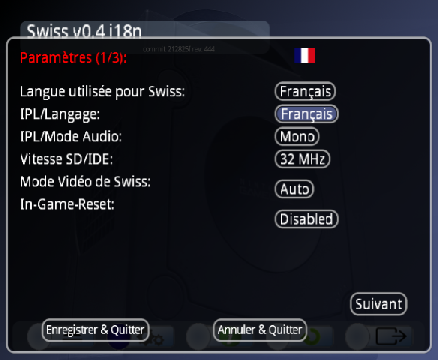
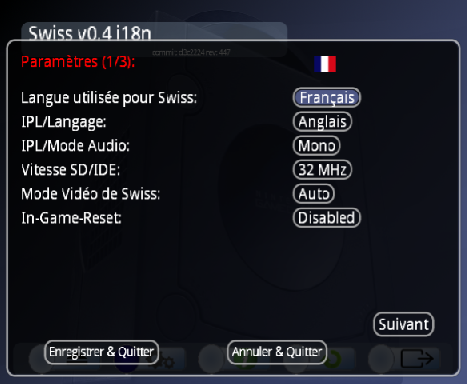
Update screen picture and readme.md

diff --git a/cube/swiss/source/gui/settings.c b/cube/swiss/source/gui/settings.c
@@ -83,7 +83,7 @@ void settings_draw_page(int page_num, int option, file_handle *file) {
 	if(!page_num) {
 		int tx_lng = swissSettings.swissLanguage + 25;
 		WriteFontStyled(30, 65, gettext("Global Settings (1/3):"), 1.0f, false, redColor);
-		DrawImage(tx_lng, 430, 65, 30,20, 0, 0.0f, 1.0f, 0.0f, 1.0f, 0);
+		DrawImage(tx_lng, 430, 70, 30,20, 0, 0.0f, 1.0f, 0.0f, 1.0f, 0);
 		
 		WriteFontStyled(30, 110, gettext("Swiss Language:"), 1.0f, false, defaultColor);
 		DrawSelectableButton(400, 110, -1, 135, getSwissLang(swissSettings.swissLanguage), option == 0 ? B_SELECTED:B_NOSELECT,-1);
@@ -98,10 +98,10 @@ void settings_draw_page(int page_num, int option, file_handle *file) {
 		DrawSelectableButton(400, 200, -1, 225, swissSettings.exiSpeed ? gettext("32 MHz"):gettext("16 MHz"), option == 3 ? B_SELECTED:B_NOSELECT,-1);
 		
 		WriteFontStyled(30, 230, gettext("Swiss Video Mode:"), 1.0f, false, defaultColor);
-		DrawSelectableButton(400, 240, -1, 265, uiVModeStr[swissSettings.uiVMode], option == 4 ? B_SELECTED:B_NOSELECT,-1);
+		DrawSelectableButton(400, 230, -1, 255, uiVModeStr[swissSettings.uiVMode], option == 4 ? B_SELECTED:B_NOSELECT,-1);
 		
 		WriteFontStyled(30, 260, gettext("In-Game-Reset:"), 1.0f, false, defaultColor);
-		DrawSelectableButton(400, 280, -1, 305, igrTypeStr[swissSettings.igrType], option == 5 ? B_SELECTED:B_NOSELECT,-1);
+		DrawSelectableButton(400, 260, -1, 285, igrTypeStr[swissSettings.igrType], option == 5 ? B_SELECTED:B_NOSELECT,-1);
 	}
 	else if(page_num == 1) {
 		WriteFontStyled(30, 65, gettext("Advanced Settings (2/3):"), 1.0f, false, redColor);

diff --git a/cube/swiss/readme.md b/cube/swiss/readme.md
@@ -10,10 +10,11 @@
 ## What's New: ##
 **New in Swiss 0.4 i18n:**
 
+
 ![Swiss i18n](https://github.com/Ketchu13/swiss-gc/blob/swiss_i18n/images/00000000-3.png)
 
 - Added Internationalization to **Swiss v0.4**
-- Avaiable Lang: **En**, **De**(Not fully), **Fr**, **Es**(Not fully). more coming soon.
+- Available Lang: **En**, **De**(Not fully), **Fr**, **Es**(Not fully). more coming soon.
 - Added Swiss Splash screen..
 - **...**
 
